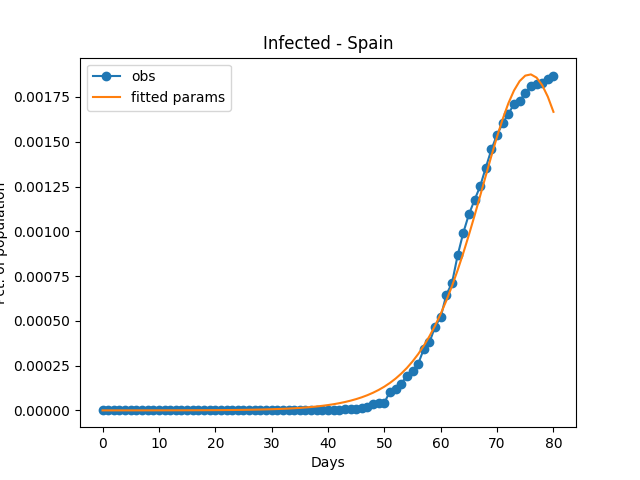
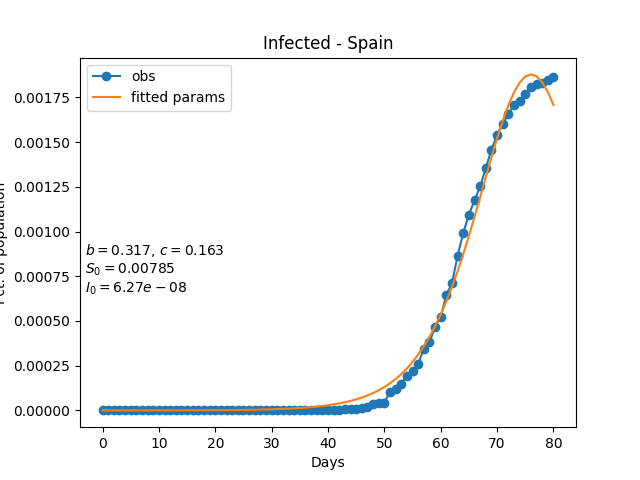
Updated fitted closed form plots with parameters in plots. Added United States.

diff --git a/analysis/fit_sir_closed_form.py b/analysis/fit_sir_closed_form.py
@@ -8,7 +8,7 @@ pd.set_option('display.max_rows', 1000)
 PLOT_FOLDER = 'plots/forecasts'
 DATA_FILE = '../data/pre-processed/cssegi_sand_data/cssegi_agg_data.pickle'
 
-country = 'Italy'
+country = 'United States'
 df_all = pd.read_pickle(DATA_FILE)
 df = df_all[df_all.country == country]
 N = df.population.iloc[0]
@@ -16,7 +16,10 @@ infected_obs = df.total_infected.values/N
 t_obs = np.array(range(len(infected_obs)))
 
 start_params_collection = {
-    'China': [2.65194937e-01,8.42629781e-02,1.01377756e-04,1.62245063e-06,1.63972157e-07]
+    # 'United States'
+    'Denmark': [0.2813704174980795, 0.18321537063550936, 0.004060442991341253, 8.361917352330868e-07, 0.9466666351336532],
+    'Iran': [0.851106161124286, 0.7347290955723527, 0.007204309357283659, 1.8612704255846171e-06, 19.647176377769476],
+    'China': [2.65194937e-01, 8.42629781e-02,1.01377756e-04,1.62245063e-06,1.63972157e-07]
 }
 
 def i_t_Shabbir_et_al(t, beta, gamma, S0, I0):
@@ -89,10 +92,14 @@ res = minimize(
     options={'gtol': 1e-14}
 )
 print(res)
-print(inv_repam(res.x))
+b, c, s0, i0, t0 = inv_repam(res.x)
+print(f'b = {b}, c = {c}, S0 = {s0}, I0 = {i0}, t0 = {t0}')
 
 It = i_t(t, *inv_repam(res.x))
 plt.plot(t_obs, It, label='fitted params')
+param_string = f'$b= {b:.3g}$, $c = {c:.3g}$\n$S_0 = {s0:.3g}$\n$I_0 = {i0:.3g}$'
+plt.text(0.01, .5, param_string, ha='left', va='top', transform=plt.gca().transAxes)
+
 plt.title(f'Infected - {country}')
 plt.ylabel('Pct. of population')
 plt.xlabel('Days')

diff --git a/analysis/CHANGELOG.md b/analysis/CHANGELOG.md
@@ -57,6 +57,7 @@ on the number of infected. Looking at the plots beneath we see that model fits q
 ![](changelog_img/15-04-2020/sir_Italy.png)
 ![](changelog_img/15-04-2020/sir_Spain.png)
 ![](changelog_img/15-04-2020/sir_Sweden.png)
+![](changelog_img/15-04-2020/sir_United States.png)
 
 [Bohner et al (2018)]: https://arxiv.org/abs/1812.09759
 [Bailey (1975)]: https://www.amazon.com/Mathematical-Theory-Infectious-Diseases-2nd/dp/0852642318 
